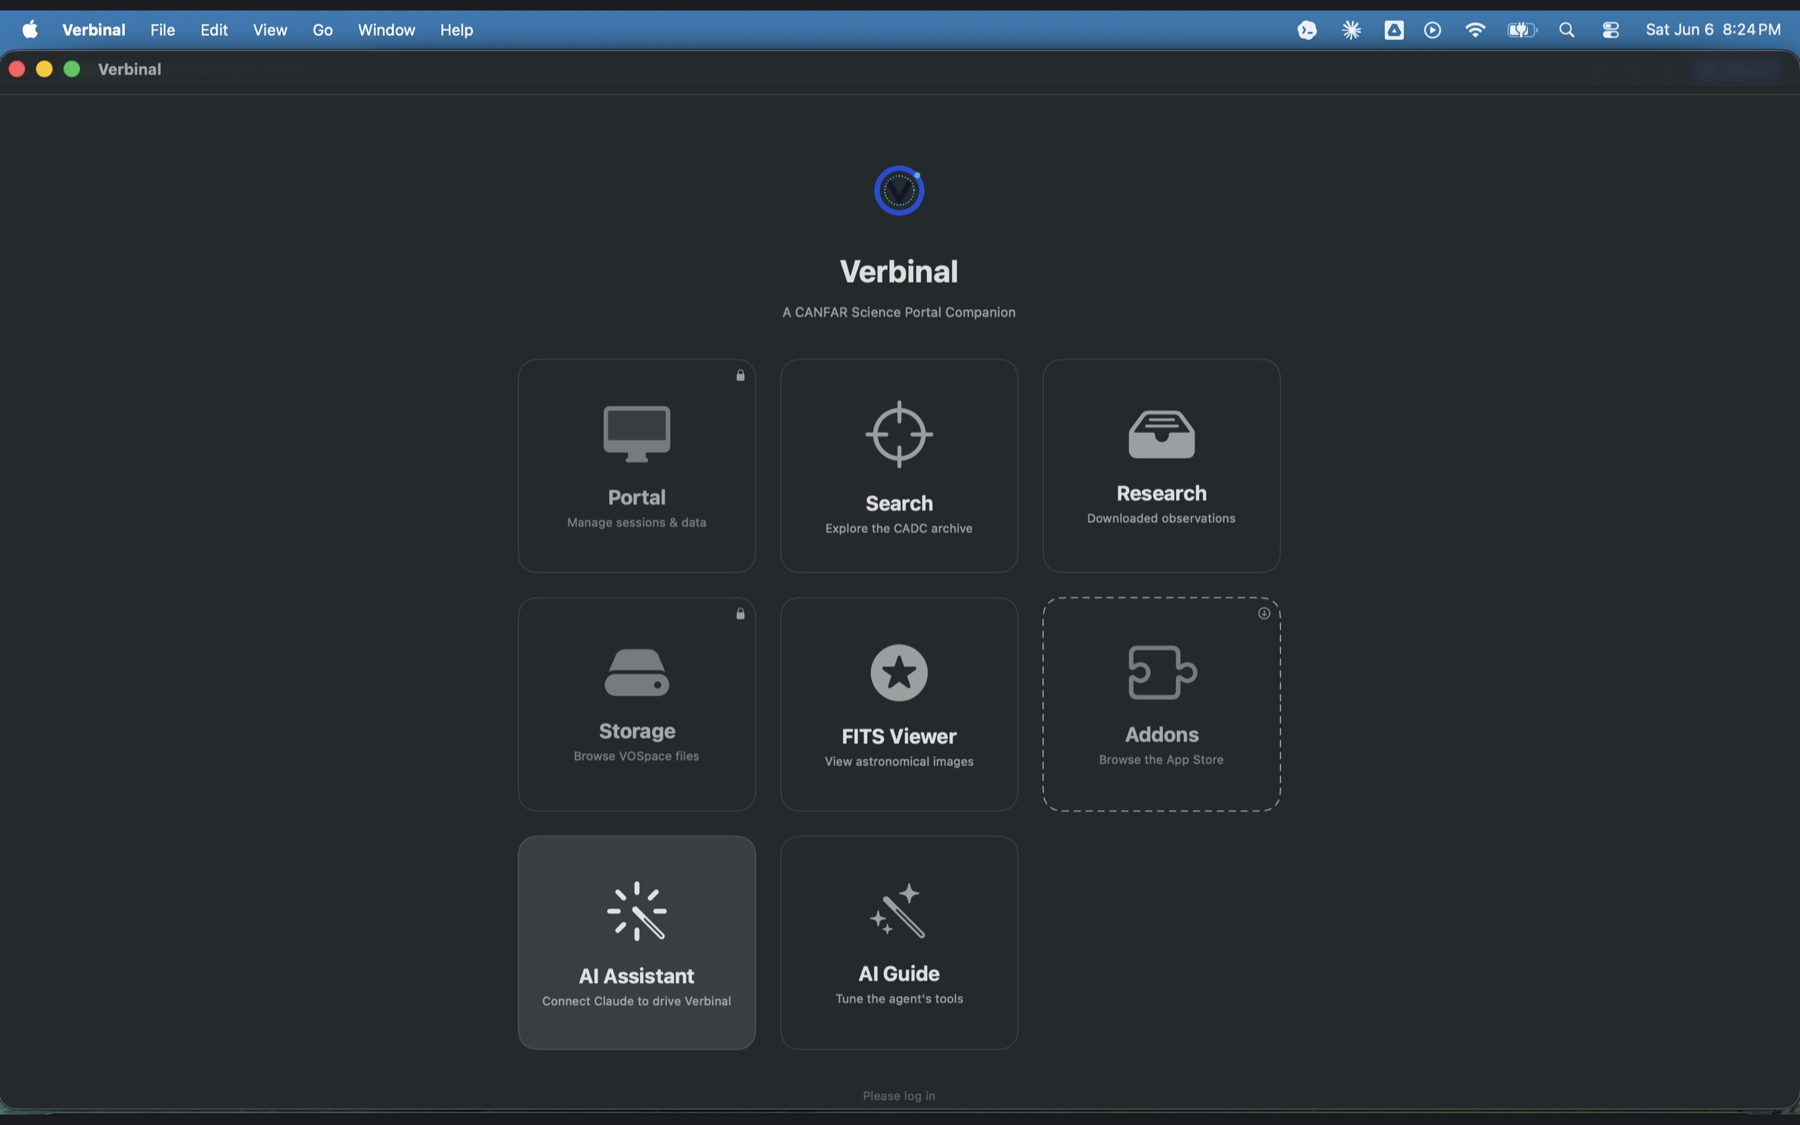
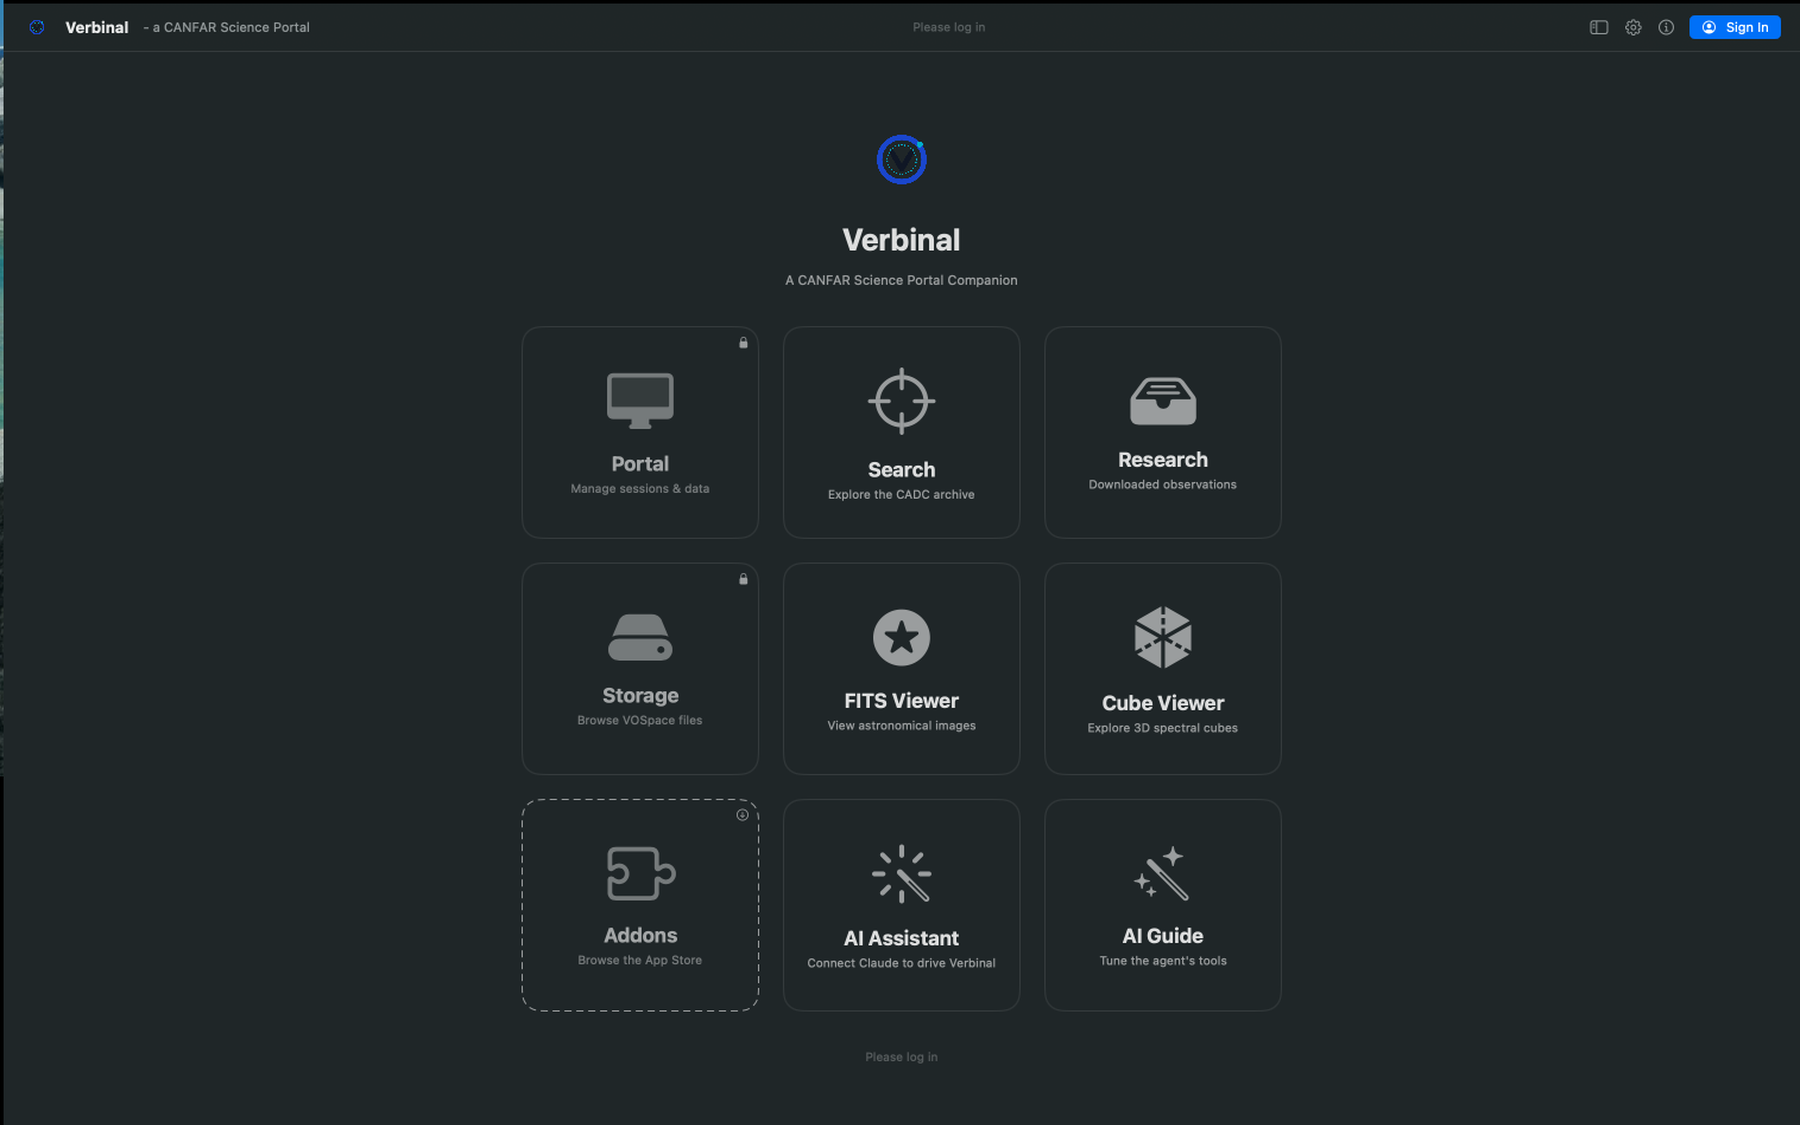
README: refresh home tiles + add 3D Cube Viewer volume hero
- Update screenshot-home.png to the 1.3 tile grid (now includes the Cube Viewer tile)
- Add screenshot-cube-volume.png as a featured hero in the Screenshots section
- Add a Cube Viewer bullet to the Features list

diff --git a/README.md b/README.md
@@ -28,6 +28,9 @@ and as a notarised build from [GitHub Releases](https://github.com/szautkin/canf
   your VOSpace files, with quota and usage at a glance.
 - **FITS viewer** — hardware-accelerated, Metal-based rendering with pan/zoom, scaling
   modes, WCS-aware pixel readout, and full zenithal projections (TAN/SIN/STG/ZEA).
+- **Cube Viewer** — explore FITS spectral cubes in 3D: a GPU ray-marched volume mode and
+  a quantitative slice mode with WCS sky coordinates, spectral readout, and click-to-probe
+  spectra — plus publication-quality figure export to PNG/PDF.
 - **Image content discovery** — find which CANFAR container image carries the Python,
   R, system, and OS-level packages your workflow needs, before you launch.
 - **AI assistant integration (MCP)** — a built-in Model Context Protocol server lets
@@ -40,6 +43,10 @@ and as a notarised build from [GitHub Releases](https://github.com/szautkin/canf
 - **Localized** — full English and French interfaces.
 
 ## Screenshots
+
+The 3D **Cube Viewer** (new in 1.3) — explore FITS spectral cubes as an interactive, GPU ray-marched volume:
+
+![Verbinal — Cube Viewer 3D volume](assets/screenshot-cube-volume.png)
 
 | Home | CADC archive search |
 |------|---------------------|